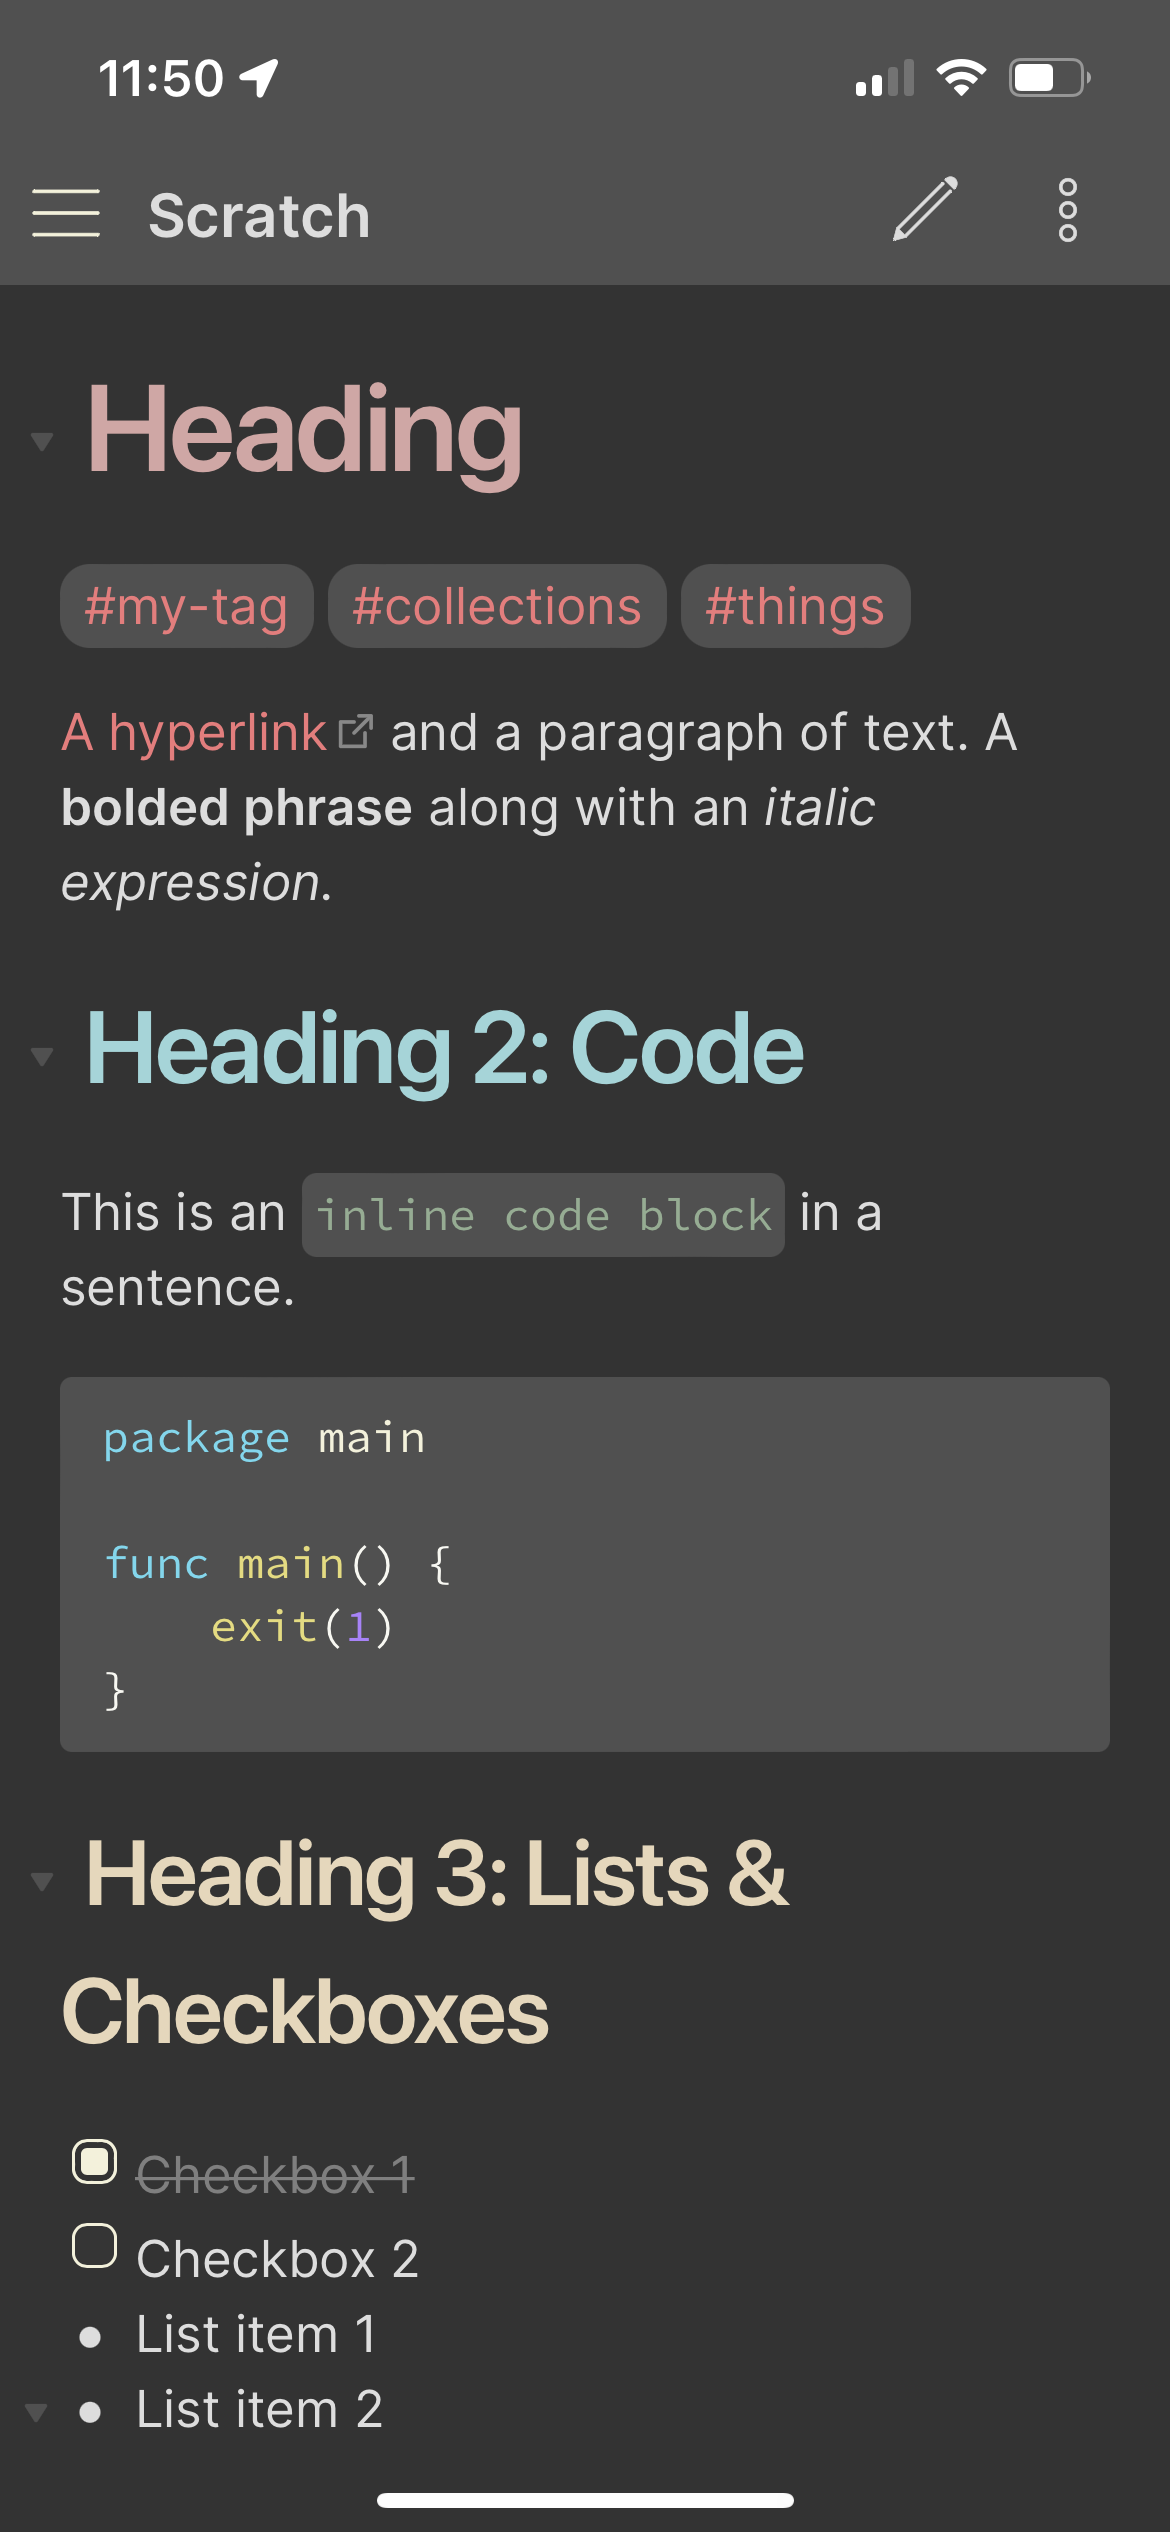
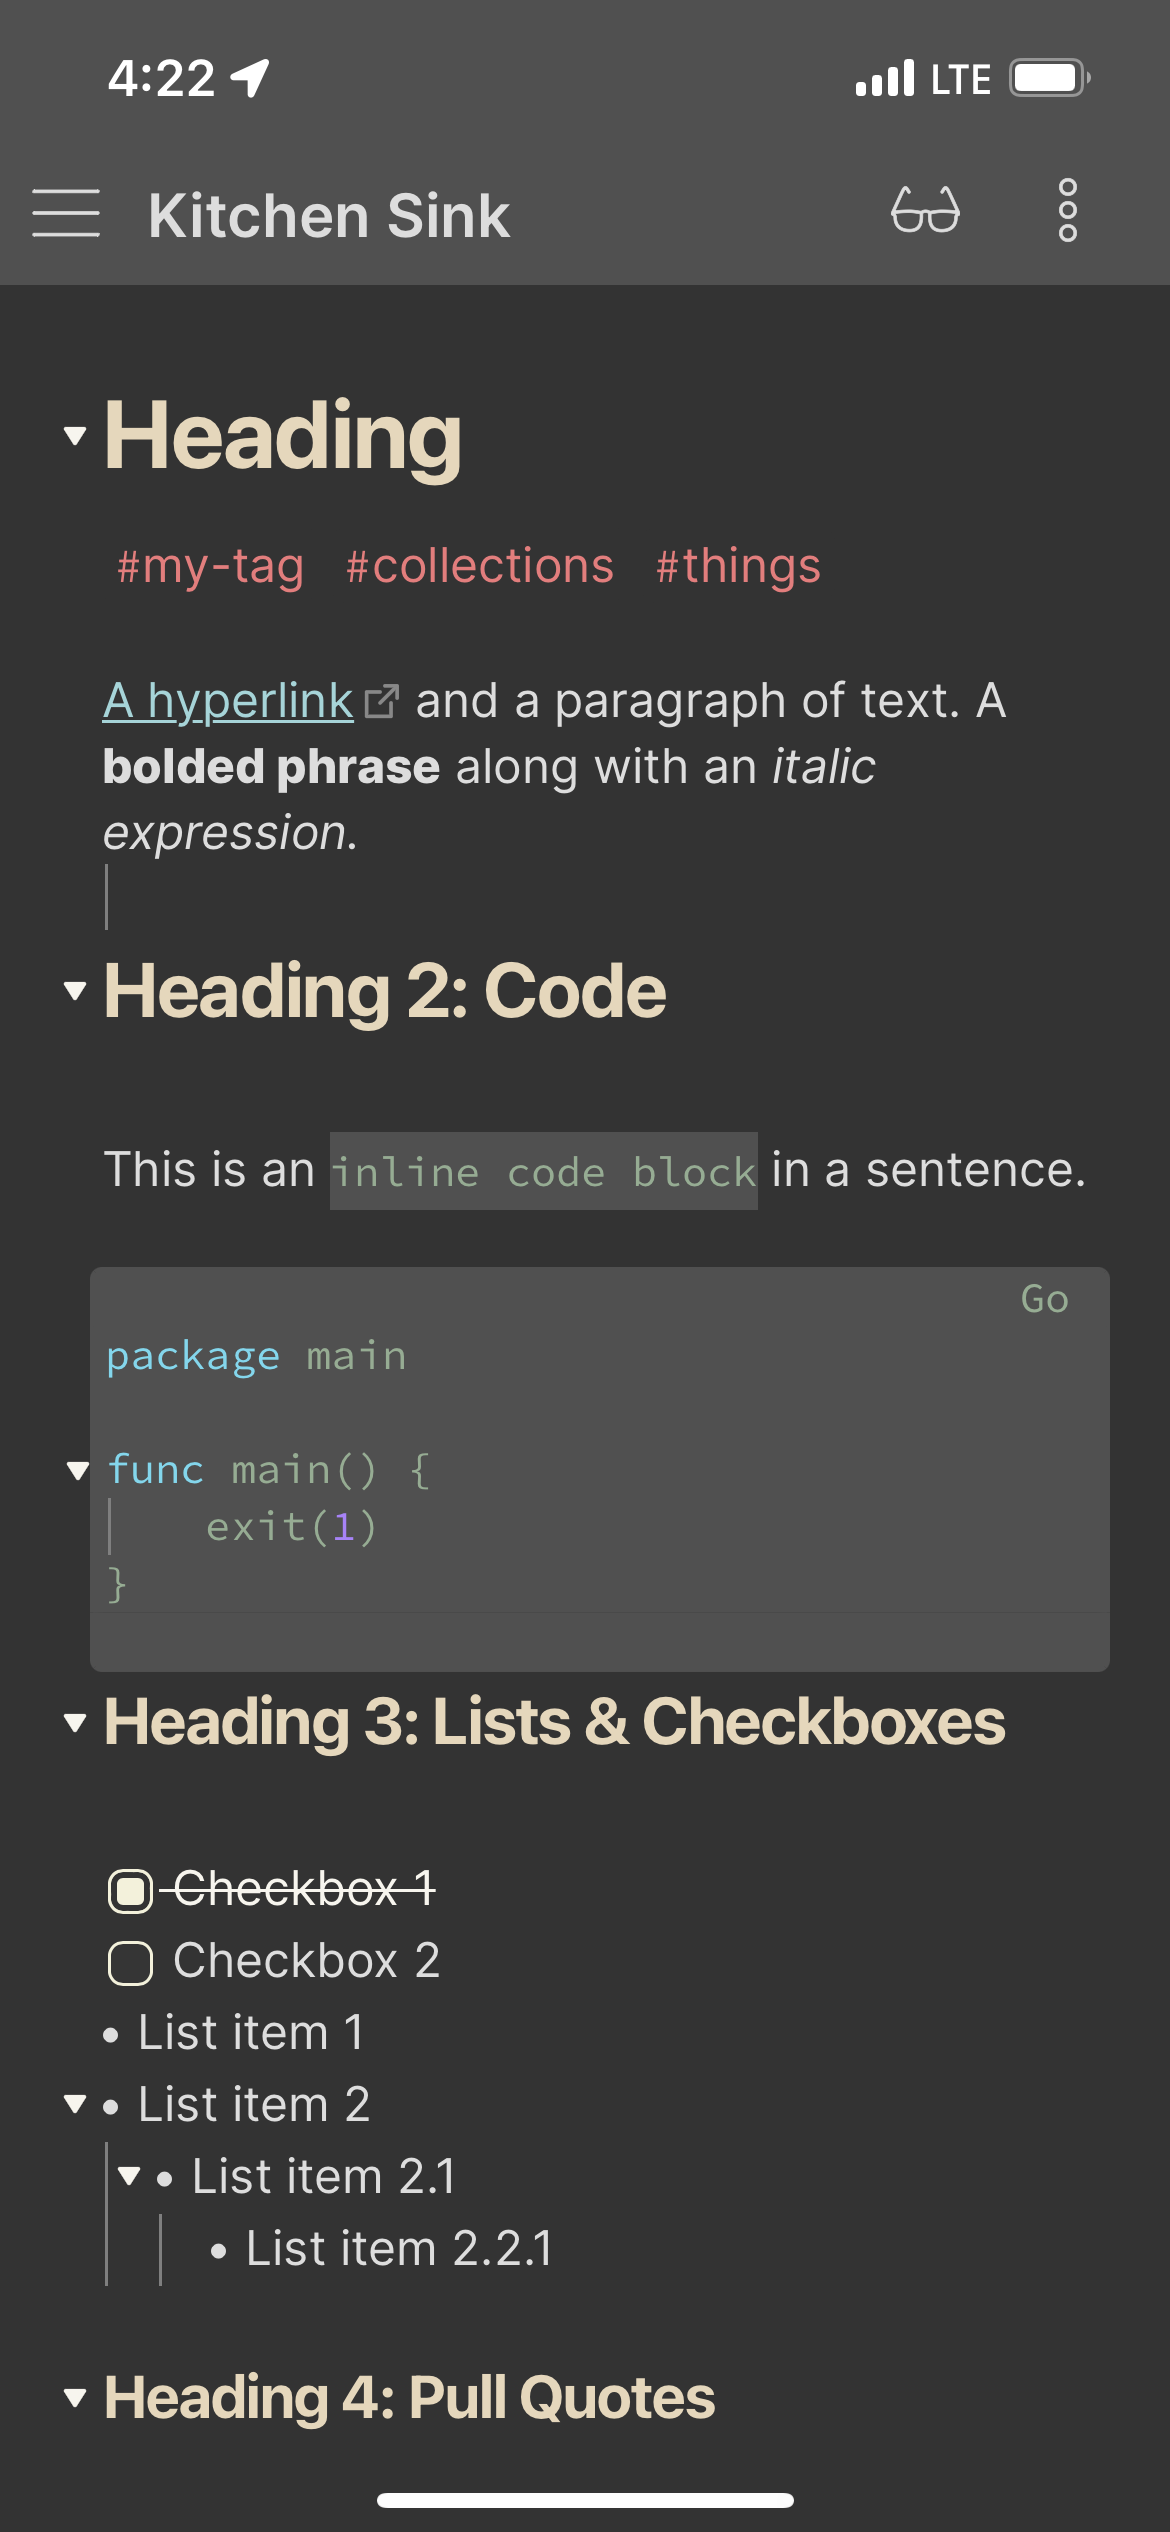
Update mobile screenshots and show them in README
Replaces the outdated ios.png and adds a second mobile screenshot
from the two unique images posted in #15 (the issue had four
attachments, but they were two images each posted twice).

Closes #15

diff --git a/README.md b/README.md
@@ -8,6 +8,11 @@ This theme is best paired with [Inter UI](https://rsms.me/inter/) and [Inconsola
 
 What's Zenburn, you ask? [Well, let me enlighten you.](https://github.com/jnurmine/Zenburn)
 
+## Mobile
+| | |
+|---|---|
+| ![](ios.png) | ![](ios-2.png) |
+
 ## Installation
 - Open your **Settings**
 - Under **Options** > **Appearance**, click **Manage** and search for "Zenburn"
